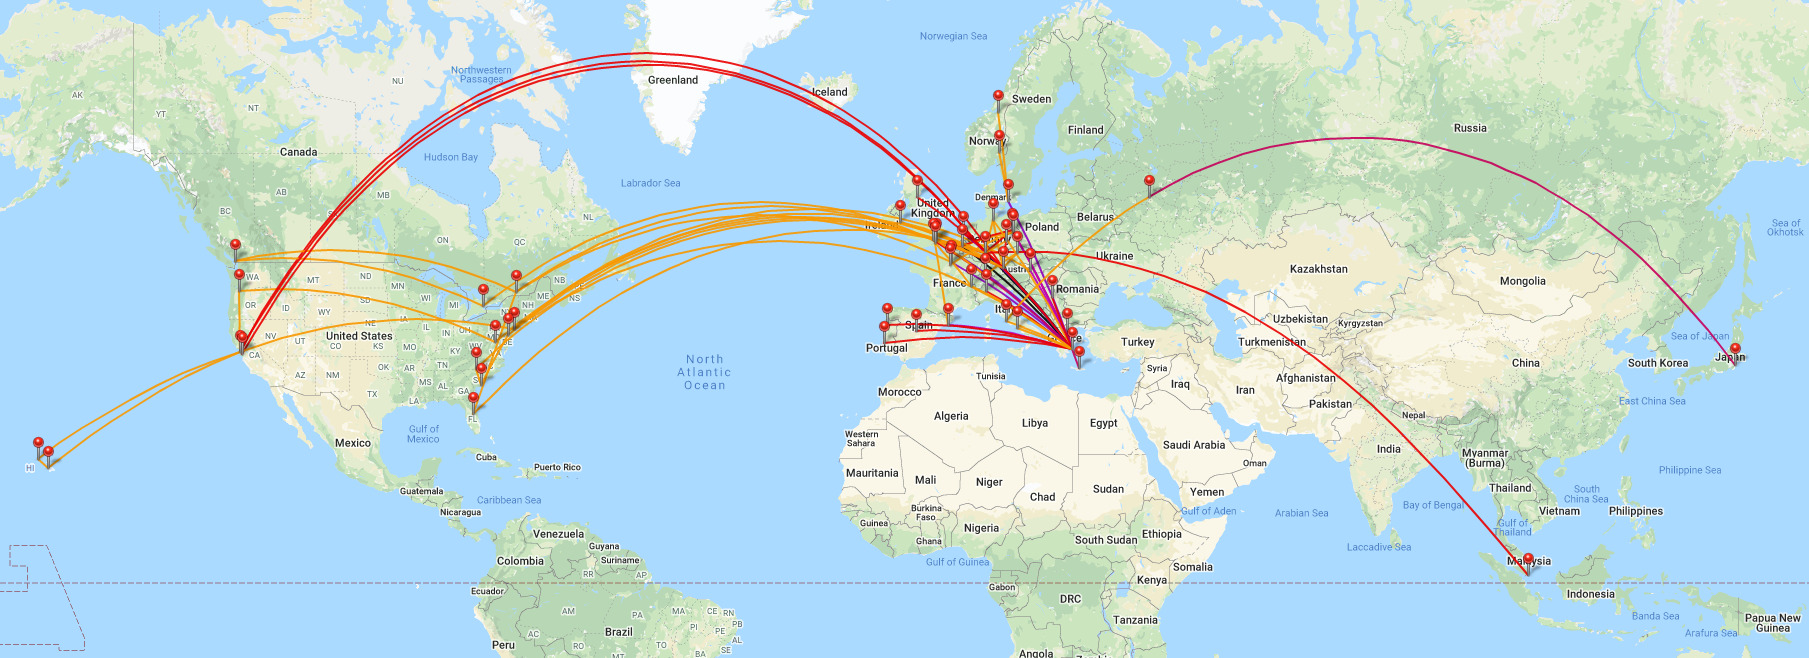
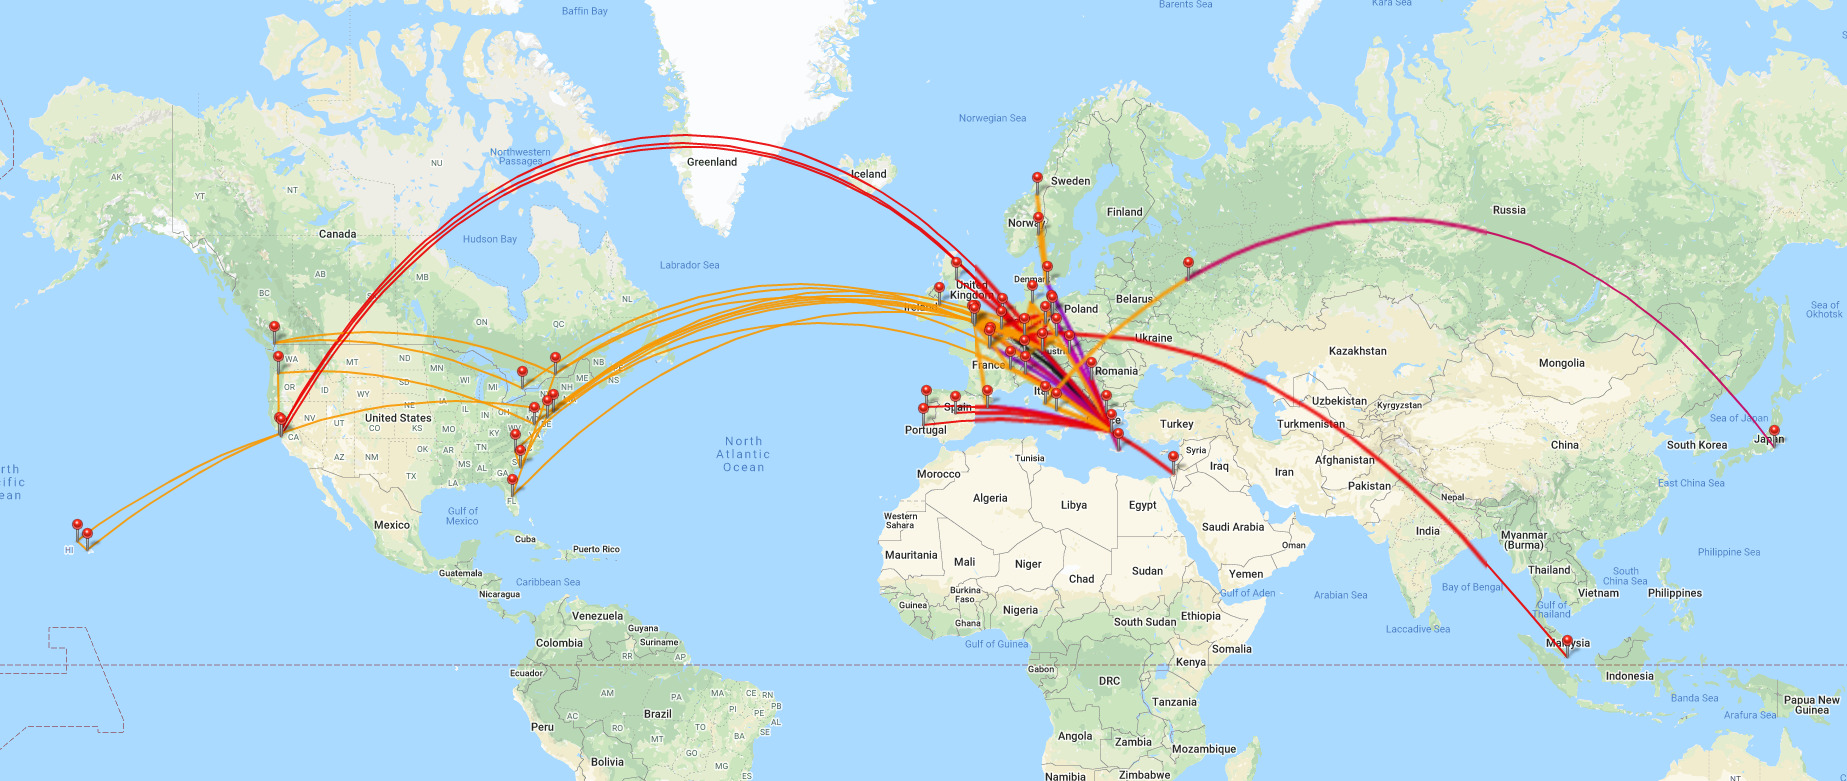
One more addition to places

diff --git a/pages/places.html b/pages/places.html
@@ -14,7 +14,7 @@
       <h3>Major Cities</h3>
 
       <p>
-        Athens, Istanbul, Milano, Naples, Bistrita, Novi Sad, Vienna, Prague, Warsaw, Zurich,
+        Athens, Istanbul, Milano, Naples, Bistrita, Novi Sad, Haifa, Vienna, Prague, Warsaw, Zurich,
         Stuttgart, Berlin, Hamburg, Copenhagen, Malmo, Oslo, Bergen, Trondheim, Amsterdam, Antwerp, Brussels,
         Paris, London, Sheffield, Edinburgh, Dublin, Barcelona, Madrid, Badajoz, Valladolid, Bilbao, San Sebastian,
         Pamplona, Zaragoza, Valencia, Alicante, Cartagena, Granada, Malaga, Seville, Faro, Aveiro, Porto, Lisbon,
@@ -27,7 +27,7 @@
       <h3>Airports</h3>
 
       <p>
-        ATH, IOA, SKG, AXD, HER, BEG, IST, OTP, CLJ, VIE, MXP, FCO, NAP, WAW, MUC, FRA, SXF,
+        ATH, IOA, SKG, AXD, HER, BEG, IST, OTP, CLJ, TLV, VIE, MXP, FCO, NAP, WAW, MUC, FRA, SXF,
         TXL, STR, HAM, GVA, ZRH, CPH, OSL, TRD, OPO, BCN, MAD, BJZ, LIS, CDG, BRU, AMS, LCY, LHR, LGW, MAN,
         EDI, DUB, YUL, YYZ, YVR, EWR, PHL, CLT, CHS, MCO, SFO, SJC, PDX, KOA, HNL, SIN, NRT.
       </p>
